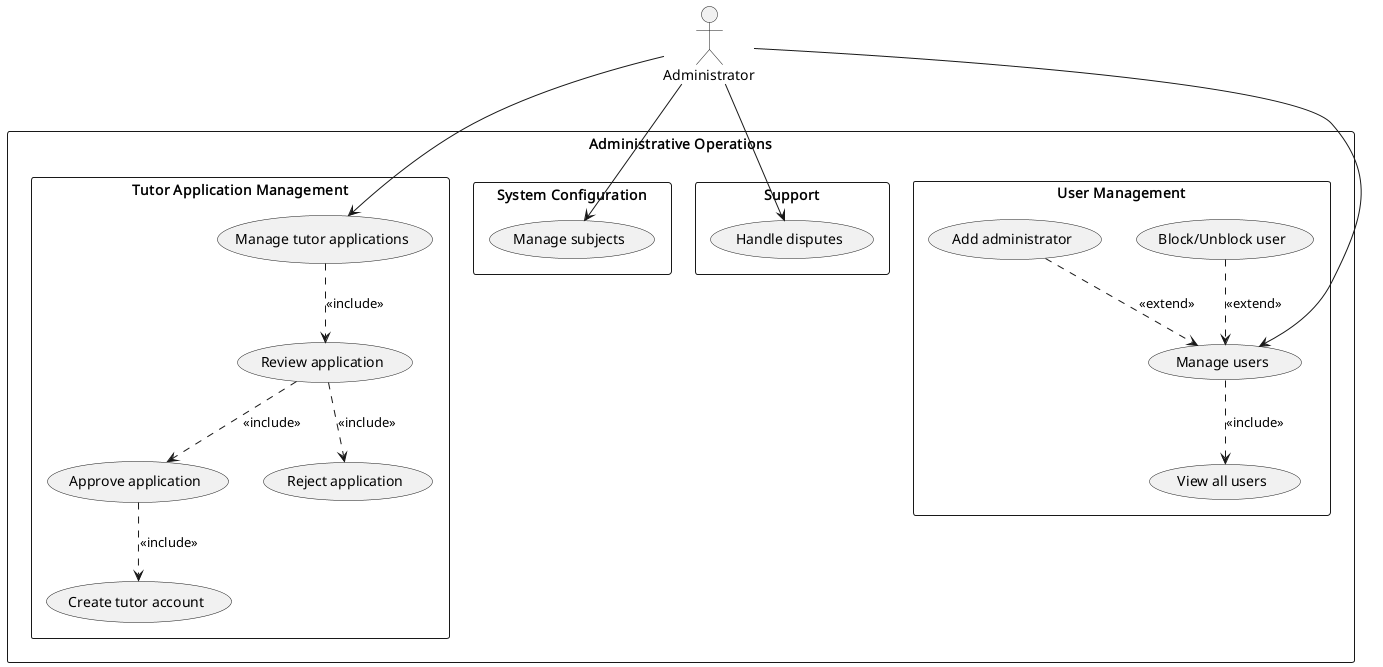
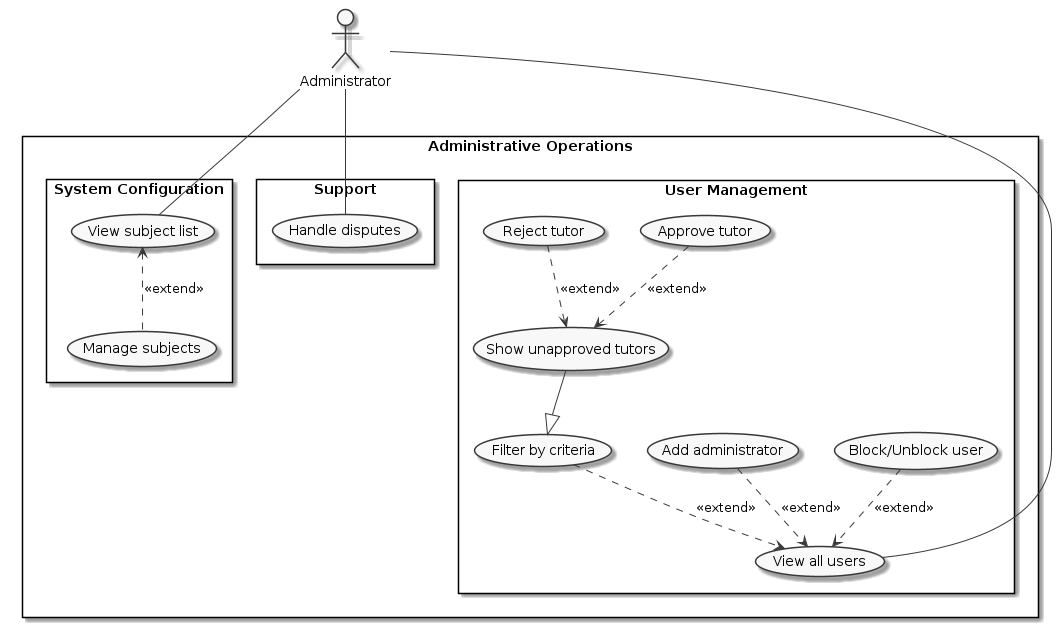
Updates to use-case diagrams

diff --git a/use-case-diagram/useCaseSearchMaterials.md b/use-case-diagram/useCaseSearchMaterials.md
@@ -1,6 +1,7 @@
 @startuml Search_Materials
 top to bottom direction
 skinparam packageStyle rectangle
+skinparam monochrome true
 
 actor "Unauthenticated user" as Anon
 actor "Authenticated user" as LoggedInUser
@@ -16,26 +17,29 @@ rectangle "Search" {
   usecase (View tutor profile) as UC_VIEW_TUT
   usecase (View public materials) as UC_VIEW_MAT_PUB
 }
-
 rectangle "Learning Materials Management" {
-  usecase (Manage learning material) as UC_MAT
-  usecase (Upload material) as UC_UPLOAD_MAT
-  usecase (Set access permissions) as UC_SET_PERM
-  usecase (View assigned materials) as UC_VIEW_ASSIGN
+    usecase (View learning materials) as UC_VIEW_MAT
+    
+  rectangle "Tutor Management" {
+    usecase (Set access permissions) as UC_SET_PERM
+    usecase (Upload material) as UC_UPLOAD_MAT
+    usecase (Edit uploaded material) as UC_EDIT_MAT
+  }
 }
 
-Anon --> UC_SEARCH
-LoggedInUser --> UC_SEARCH
+Anon -- UC_SEARCH
+LoggedInUser -- UC_SEARCH
 
-LoggedInUser --> UC_VIEW_TUT
+Student -- UC_VIEW_MAT
+Tutor -- UC_VIEW_MAT
 
-Student --> UC_VIEW_ASSIGN
-Tutor --> UC_MAT
-
-UC_SEARCH ..> UC_FILTER : <<include>>
+UC_SEARCH <.. UC_FILTER : <<extend>>
 UC_VIEW_MAT_PUB ..> UC_SEARCH : <<extend>>
+UC_VIEW_TUT ..> UC_SEARCH : <<extend>>
 
-UC_MAT ..> UC_UPLOAD_MAT : <<include>>
-UC_MAT ..> UC_SET_PERM : <<include>>
+UC_UPLOAD_MAT ..> UC_VIEW_MAT : <<extend>>
+UC_SET_PERM ..> UC_VIEW_MAT : <<extend>>
+UC_EDIT_MAT ..> UC_VIEW_MAT : <<extend>>
+
 
 @enduml

diff --git a/use-case-diagram/useCaseAdministration.md b/use-case-diagram/useCaseAdministration.md
@@ -1,0 +1,44 @@
+@startuml Administrative_Operations
+top to bottom direction
+skinparam packageStyle rectangle
+skinparam monochrome true
+actor "Administrator" as Admin
+
+rectangle "Administrative Operations" {
+  
+  rectangle "User Management" {
+    usecase (Filter by criteria) as UC_FILTER_CRIT
+    usecase (View all users) as UC_VIEW_USR
+    usecase (Block/Unblock user) as UC_BLOCK_USR
+    usecase (Add administrator) as UC_ADD_ADMIN
+    usecase (Show unapproved tutors) as UC_UNAPPLIST_TUT
+    usecase (Approve tutor) as UC_APPROVE_TUT
+    usecase (Reject tutor) as UC_REJECT_TUT
+  }
+
+  rectangle "System Configuration" {
+    usecase (View subject list) as UC_SUBJ_LIST
+    usecase (Manage subjects) as UC_MAN_SUB
+    usecase (Filter by criteria) as UC_FILTER_CRIT
+  }
+  
+  rectangle "Support" {
+    usecase (Handle disputes) as UC_DISPUTE
+  }
+}
+
+
+Admin -- UC_VIEW_USR
+
+Admin -- UC_SUBJ_LIST
+Admin -- UC_DISPUTE
+
+UC_BLOCK_USR ..> UC_VIEW_USR : <<extend>>
+UC_ADD_ADMIN ..> UC_VIEW_USR : <<extend>>
+UC_FILTER_CRIT ..> UC_VIEW_USR : <<extend>>
+UC_UNAPPLIST_TUT --|> UC_FILTER_CRIT
+UC_APPROVE_TUT ..> UC_UNAPPLIST_TUT : <<extend>>
+UC_REJECT_TUT ..>  UC_UNAPPLIST_TUT : <<extend>>
+UC_SUBJ_LIST <.. UC_MAN_SUB : <<extend>>
+
+@enduml

diff --git a/use-case-diagram/useCaseTutorLessonMan.md b/use-case-diagram/useCaseTutorLessonMan.md
@@ -1,0 +1,41 @@
+@startuml Tutor_Lesson_Management
+left to right direction
+skinparam packageStyle rectangle
+skinparam monochrome true
+
+actor "Tutor" as Tutor
+
+rectangle "Lesson Management" {
+  
+
+    usecase (View group lesson list) as UC_VIEW_GRPL
+    usecase (Create group lessons) as UC_GRP_CRT
+    usecase (Mark specific time slots) as UC_TIME_SLOTS
+    usecase (View availability calendar) as UC_CALENDAR_VIEW
+    usecase (Edit individual lesson availability) as UC_EDIT_AVAIL
+    usecase (View reservation list) as UC_TUT_RES
+    usecase (Confirm reservation) as UC_CONF_RES
+    usecase (Cancel reservation) as UC_CANCEL_RES
+    usecase (Filter by criteria) as UC_FILTER_CRIT
+    usecase (Manage recurrent reservations) as UC_MAN_REC
+}
+
+
+Tutor -- UC_CALENDAR_VIEW
+UC_EDIT_AVAIL ..> UC_CALENDAR_VIEW : <<extend>>
+UC_TIME_SLOTS ..> UC_CALENDAR_VIEW : <<extend>>
+Tutor -- UC_TUT_RES
+
+Tutor -- UC_VIEW_GRPL
+
+UC_GRP_CRT ..> UC_VIEW_GRPL : <<extend>>
+
+UC_TUT_RES <.. UC_CONF_RES : <<extend>>
+UC_TUT_RES <.. UC_CANCEL_RES : <<extend>>
+
+UC_FILTER_CRIT ..> UC_TUT_RES : <<extend>>
+UC_FILTER_CRIT ..> UC_VIEW_GRPL : <<extend>>
+
+UC_MAN_REC ..> UC_TUT_RES : <<extend>>
+
+@enduml

diff --git a/use-case-diagram/useCaseStudentLessonMan.md b/use-case-diagram/useCaseStudentLessonMan.md
@@ -1,0 +1,34 @@
+@startuml Student_Lesson_Management
+left to right direction
+skinparam packageStyle rectangle
+skinparam monochrome true
+
+actor "Student" as Student
+
+rectangle "Lesson Management" {
+
+    usecase (Book a lesson) as UC_RES
+    usecase (View lesson list) as UC_VIEW_LESSONS
+
+    usecase (View group lesson list) as UC_VIEW_GRPL
+    usecase (Register for group lesson) as UC_GRP_REG
+  
+    usecase (View reservation list) as UC_VIEW_RES
+    usecase (Cancel recurrent reservations) as UC_REC_RES
+    usecase (Create reccurent reservation) as UC_RECC_CREATE
+
+    usecase (Filter by criteria) as UC_FILTER_CRIT
+}
+
+Student -- UC_VIEW_LESSONS
+Student -- UC_VIEW_GRPL
+
+UC_VIEW_RES ..> UC_VIEW_LESSONS : <<extend>>
+UC_RES ..> UC_VIEW_LESSONS : <<extend>>
+UC_GRP_REG ..> UC_VIEW_GRPL : <<extend>>
+UC_REC_RES ..> UC_VIEW_RES : <<extend>>
+UC_FILTER_CRIT ..> UC_VIEW_LESSONS : <<extend>>
+UC_FILTER_CRIT ..> UC_VIEW_GRPL : <<extend>>
+UC_FILTER_CRIT ..> UC_VIEW_RES : <<extend>>
+UC_RECC_CREATE ..> UC_VIEW_RES : <<extend>>
+@enduml

diff --git a/use-case-diagram/useCaseProfileManagement.md b/use-case-diagram/useCaseProfileManagement.md
@@ -1,0 +1,41 @@
+@startuml Profile_Management
+top to bottom direction
+skinparam packageStyle rectangle
+skinparam monochrome true
+
+actor "Authenticated user" as LoggedInUser
+actor "Student" as Student
+actor "Tutor" as Tutor
+
+LoggedInUser <|-- Student
+LoggedInUser <|-- Tutor
+
+rectangle "Profile and Account Management" {
+  usecase (Logout) as UC_LOGOUT
+  usecase (Change language) as UC_LANG
+  
+  rectangle "Profile Operations" {
+    usecase (View own profile) as UC_PROF
+    usecase (Edit profile information) as UC_EDIT_PROF
+
+  }
+
+  rectangle "Tutor operations" {
+    usecase (Request profile changes) as UC_REQ_CHANGE
+    usecase (Set maximum number of students) as UC_SET_MAX
+  }
+  
+}
+
+LoggedInUser -- UC_LOGOUT
+LoggedInUser -- UC_LANG
+LoggedInUser -- UC_PROF
+
+Tutor -- UC_REQ_CHANGE
+Tutor -- UC_SET_MAX
+
+UC_PROF <.. UC_EDIT_PROF : <<extend>>
+UC_REQ_CHANGE ..> UC_PROF : <<extend>>
+UC_SET_MAX ..> UC_PROF : <<extend>>
+
+@enduml

diff --git a/use-case-diagram/useCaseAuthRegistration.md b/use-case-diagram/useCaseAuthRegistration.md
@@ -1,6 +1,7 @@
 @startuml Authentication_Registration
 top to bottom direction
 skinparam packageStyle rectangle
+skinparam monochrome true
 
 actor "Unauthenticated user" as Anon
 
@@ -8,16 +9,16 @@ rectangle "Authentication and Registration" {
   usecase (Login) as UC_LOGIN
   usecase (External authentication) as UC_EXT_AUTH
   usecase (Register as student) as UC_REG_ST
-  usecase (Submit tutor application) as UC_APP_TUT
+  usecase (Register as tutor) as UC_APP_TUT
   usecase (Reset password) as UC_RST_PWD
 }
 
-Anon --> UC_LOGIN
-Anon --> UC_REG_ST
-Anon --> UC_APP_TUT
-Anon --> UC_RST_PWD
+Anon -- UC_LOGIN
+Anon -- UC_REG_ST
+Anon -- UC_APP_TUT
+Anon -- UC_RST_PWD
 
-UC_LOGIN ..> UC_EXT_AUTH : <<extend>>
+UC_LOGIN <|-- UC_EXT_AUTH
 
 
 @enduml

diff --git a/use-case-diagram/useCaseFinancial.md b/use-case-diagram/useCaseFinancial.md
@@ -1,6 +1,7 @@
 @startuml Financial_Management
 top to bottom direction
 skinparam packageStyle rectangle
+skinparam monochrome true
 
 actor "Student" as Student
 
@@ -10,8 +11,10 @@ rectangle "Credits and Payments" {
   usecase (Request credit refund) as UC_REFUND
 }
 
-Student --> UC_VIEW_BAL
-Student --> UC_CRED
-Student --> UC_REFUND
+Student -- UC_VIEW_BAL
+
+
+UC_VIEW_BAL <.. UC_REFUND : <<extend>>
+UC_VIEW_BAL <.. UC_CRED : <<extend>>
 
 @enduml

diff --git a/use-case-diagram/useCaseReviews.md b/use-case-diagram/useCaseReviews.md
@@ -1,6 +1,7 @@
 @startuml Reviews_Feedback
 left to right direction
 skinparam packageStyle rectangle
+skinparam monochrome true
 
 actor "Student" as Student
 
@@ -9,8 +10,8 @@ rectangle "Reviews" {
   usecase (Write comment) as UC_COMMENT
 }
 
-Student --> UC_REV
+Student -- UC_REV
 
-UC_REV ..> UC_COMMENT : <<extend>>
+UC_REV <.. UC_COMMENT : <<extend>>
 
 @enduml
